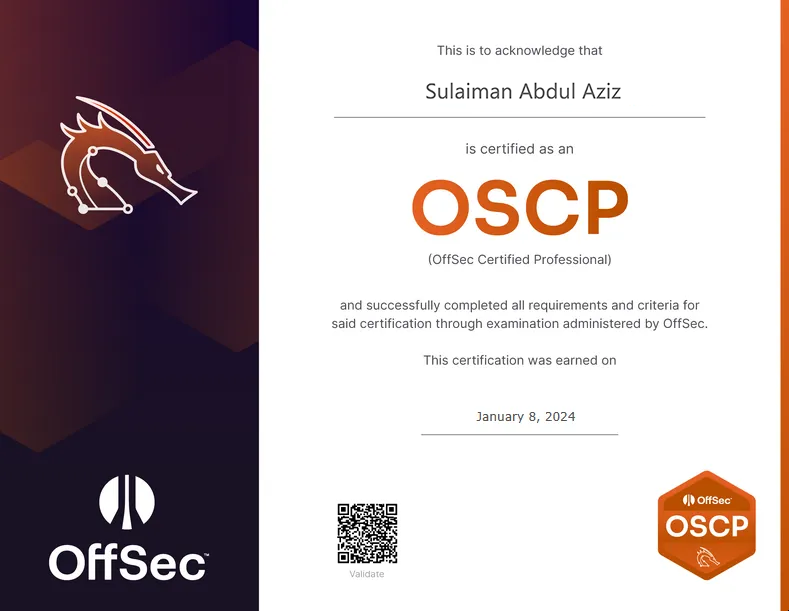
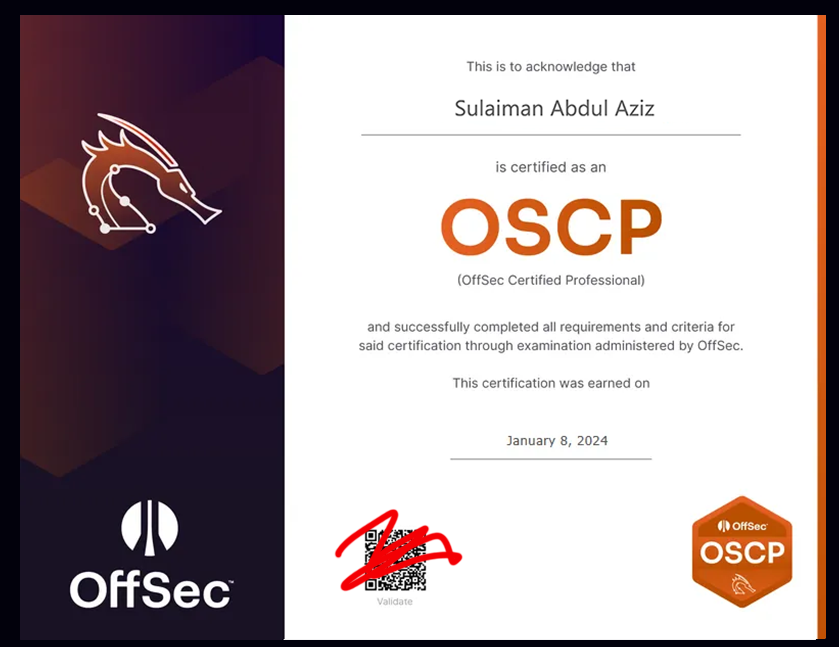
spin update

diff --git a/index.html b/index.html
@@ -221,88 +221,148 @@
                 <div class="certificate-slider">
                   <div class="certificates">
                     <div class="certificate-item">
-                      <img src="assets/images/cert/OSCP.png" alt="Certificate 1">
+                      <img src="assets/images/cert/CARTP.png" alt="Certificate 1">
                     </div>
                     <div class="certificate-item">
-                      <img src="assets/images/cert/CPTS.png" alt="Certificate 2">
+                      <img src="assets/images/cert/CAWASP.png" alt="Certificate 2">
                     </div>
                     <div class="certificate-item">
-                      <img src="assets/images/cert/OSMR.png" alt="Certificate 3">
+                      <img src="assets/images/cert/CBBH.png" alt="Certificate 3">
                     </div>
                     <div class="certificate-item">
-                      <img src="assets/images/cert/Offshore.png" alt="Certificate 4">
+                      <img src="assets/images/cert/CDSA.png" alt="Certificate 4">
                     </div>
                     <div class="certificate-item">
-                      <img src="assets/images/cert/CWEE.png" alt="Certificate 5">
+                      <img src="assets/images/cert/CPTS.png" alt="Certificate 5">
                     </div>
                     <div class="certificate-item">
-                      <img src="assets/images/cert/CAWASP.png" alt="Certificate 6">
+                      <img src="assets/images/cert/CRTE.png" alt="Certificate 6">
                     </div>
                     <div class="certificate-item">
-                      <img src="assets/images/cert/CBBH.png" alt="Certificate 7">
+                      <img src="assets/images/cert/CRTP.png" alt="Certificate 7">
                     </div>
                     <div class="certificate-item">
-                      <img src="assets/images/cert/OSCE3.png" alt="Certificate 8">
+                      <img src="assets/images/cert/CWEE.png" alt="Certificate 8">
                     </div>
                     <div class="certificate-item">
-                      <img src="assets/images/cert/PACES.png" alt="Certificate 9">
+                      <img src="assets/images/cert/Cybernetics.png" alt="Certificate 9">
                     </div>
                     <div class="certificate-item">
-                      <img src="assets/images/cert/CDSA.png" alt="Certificate 10">
+                      <img src="assets/images/cert/Dante.png" alt="Certificate 10">
                     </div>
                     <div class="certificate-item">
-                      <img src="assets/images/cert/CBBH.png" alt="Certificate 11">
+                      <img src="assets/images/cert/ECPPT.png" alt="Certificate 11">
                     </div>
                     <div class="certificate-item">
-                      <img src="assets/images/cert/Dante.png" alt="Certificate 12">
+                      <img src="assets/images/cert/ECPTX.png" alt="Certificate 12">
                     </div>
                     <div class="certificate-item">
-                      <img src="assets/images/cert/OSEE.png" alt="Certificate 13">
+                      <img src="assets/images/cert/ECXD.png" alt="Certificate 13">
                     </div>
                     <div class="certificate-item">
-                      <img src="assets/images/cert/CDSA.png" alt="Certificate 14">
+                      <img src="assets/images/cert/EMAPT.png" alt="Certificate 14">
                     </div>
                     <div class="certificate-item">
-                      <img src="assets/images/cert/OSCP.png" alt="Certificate 1">
+                      <img src="assets/images/cert/EWPTX.png" alt="Certificate 15">
                     </div>
                     <div class="certificate-item">
-                      <img src="assets/images/cert/CPTS.png" alt="Certificate 2">
+                      <img src="assets/images/cert/KLCP.png" alt="Certificate 16">
                     </div>
                     <div class="certificate-item">
-                      <img src="assets/images/cert/OSMR.png" alt="Certificate 3">
+                      <img src="assets/images/cert/Offshore.png" alt="Certificate 17">
                     </div>
                     <div class="certificate-item">
-                      <img src="assets/images/cert/Offshore.png" alt="Certificate 4">
+                      <img src="assets/images/cert/OSCE.png" alt="Certificate 18">
                     </div>
                     <div class="certificate-item">
-                      <img src="assets/images/cert/CWEE.png" alt="Certificate 5">
+                      <img src="assets/images/cert/OSCP.png" alt="Certificate 19">
                     </div>
                     <div class="certificate-item">
-                      <img src="assets/images/cert/CAWASP.png" alt="Certificate 6">
+                      <img src="assets/images/cert/OSEE.png" alt="Certificate 20">
                     </div>
                     <div class="certificate-item">
-                      <img src="assets/images/cert/CBBH.png" alt="Certificate 7">
+                      <img src="assets/images/cert/OSMR.png" alt="Certificate 21">
                     </div>
                     <div class="certificate-item">
-                      <img src="assets/images/cert/OSCE3.png" alt="Certificate 8">
+                      <img src="assets/images/cert/OSWE.png" alt="Certificate 22">
                     </div>
                     <div class="certificate-item">
-                      <img src="assets/images/cert/PACES.png" alt="Certificate 9">
+                      <img src="assets/images/cert/OSWP.png" alt="Certificate 23">
                     </div>
                     <div class="certificate-item">
-                      <img src="assets/images/cert/CDSA.png" alt="Certificate 10">
+                      <img src="assets/images/cert/PACES.png" alt="Certificate 24">
                     </div>
                     <div class="certificate-item">
-                      <img src="assets/images/cert/CBBH.png" alt="Certificate 11">
+                      <img src="assets/images/cert/CARTP.png" alt="Certificate 1">
                     </div>
                     <div class="certificate-item">
-                      <img src="assets/images/cert/Dante.png" alt="Certificate 12">
+                      <img src="assets/images/cert/CAWASP.png" alt="Certificate 2">
                     </div>
                     <div class="certificate-item">
-                      <img src="assets/images/cert/OSEE.png" alt="Certificate 13">
+                      <img src="assets/images/cert/CBBH.png" alt="Certificate 3">
                     </div>
                     <div class="certificate-item">
-                      <img src="assets/images/cert/CDSA.png" alt="Certificate 14">
+                      <img src="assets/images/cert/CDSA.png" alt="Certificate 4">
+                    </div>
+                    <div class="certificate-item">
+                      <img src="assets/images/cert/CPTS.png" alt="Certificate 5">
+                    </div>
+                    <div class="certificate-item">
+                      <img src="assets/images/cert/CRTE.png" alt="Certificate 6">
+                    </div>
+                    <div class="certificate-item">
+                      <img src="assets/images/cert/CRTP.png" alt="Certificate 7">
+                    </div>
+                    <div class="certificate-item">
+                      <img src="assets/images/cert/CWEE.png" alt="Certificate 8">
+                    </div>
+                    <div class="certificate-item">
+                      <img src="assets/images/cert/Cybernetics.png" alt="Certificate 9">
+                    </div>
+                    <div class="certificate-item">
+                      <img src="assets/images/cert/Dante.png" alt="Certificate 10">
+                    </div>
+                    <div class="certificate-item">
+                      <img src="assets/images/cert/ECPPT.png" alt="Certificate 11">
+                    </div>
+                    <div class="certificate-item">
+                      <img src="assets/images/cert/ECPTX.png" alt="Certificate 12">
+                    </div>
+                    <div class="certificate-item">
+                      <img src="assets/images/cert/ECXD.png" alt="Certificate 13">
+                    </div>
+                    <div class="certificate-item">
+                      <img src="assets/images/cert/EMAPT.png" alt="Certificate 14">
+                    </div>
+                    <div class="certificate-item">
+                      <img src="assets/images/cert/EWPTX.png" alt="Certificate 15">
+                    </div>
+                    <div class="certificate-item">
+                      <img src="assets/images/cert/KLCP.png" alt="Certificate 16">
+                    </div>
+                    <div class="certificate-item">
+                      <img src="assets/images/cert/Offshore.png" alt="Certificate 17">
+                    </div>
+                    <div class="certificate-item">
+                      <img src="assets/images/cert/OSCE.png" alt="Certificate 18">
+                    </div>
+                    <div class="certificate-item">
+                      <img src="assets/images/cert/OSCP.png" alt="Certificate 19">
+                    </div>
+                    <div class="certificate-item">
+                      <img src="assets/images/cert/OSEE.png" alt="Certificate 20">
+                    </div>
+                    <div class="certificate-item">
+                      <img src="assets/images/cert/OSMR.png" alt="Certificate 21">
+                    </div>
+                    <div class="certificate-item">
+                      <img src="assets/images/cert/OSWE.png" alt="Certificate 22">
+                    </div>
+                    <div class="certificate-item">
+                      <img src="assets/images/cert/OSWP.png" alt="Certificate 23">
+                    </div>
+                    <div class="certificate-item">
+                      <img src="assets/images/cert/PACES.png" alt="Certificate 24">
                     </div>
                   </div>
                 </div><br>

diff --git a/style.css b/style.css
@@ -19,9 +19,9 @@
   width: 200px; /* Adjust width to fit your layout */
   height: 160px; /* Set a consistent height */
   margin-right: 20px;
-  background-color: rgb(24, 24, 24); /* Background color for contrast */
+  background-color: rgb(9, 9, 9); /* Background color for contrast */
   border-radius: 10px; /* Smooth rounded corners */
-  box-shadow: 0 4px 8px rgba(0, 0, 0, 0.1); /* Smooth shadow effect */
+  box-shadow: 0 4px 8px rgba(2, 2, 2, 0.571); /* Smooth shadow effect */
   border: 1px solid #cfcfcf; /* Smooth outline */
   overflow: hidden; /* Ensures the image stays within the container */
   text-align: center;

diff --git a/assets/images/cert/README.md b/assets/images/cert/README.md
@@ -1,0 +1,1 @@
+`CENSORED SINCE YOU HACKERS LOVE TO STEAL PPL CRED AND CHAIN`
